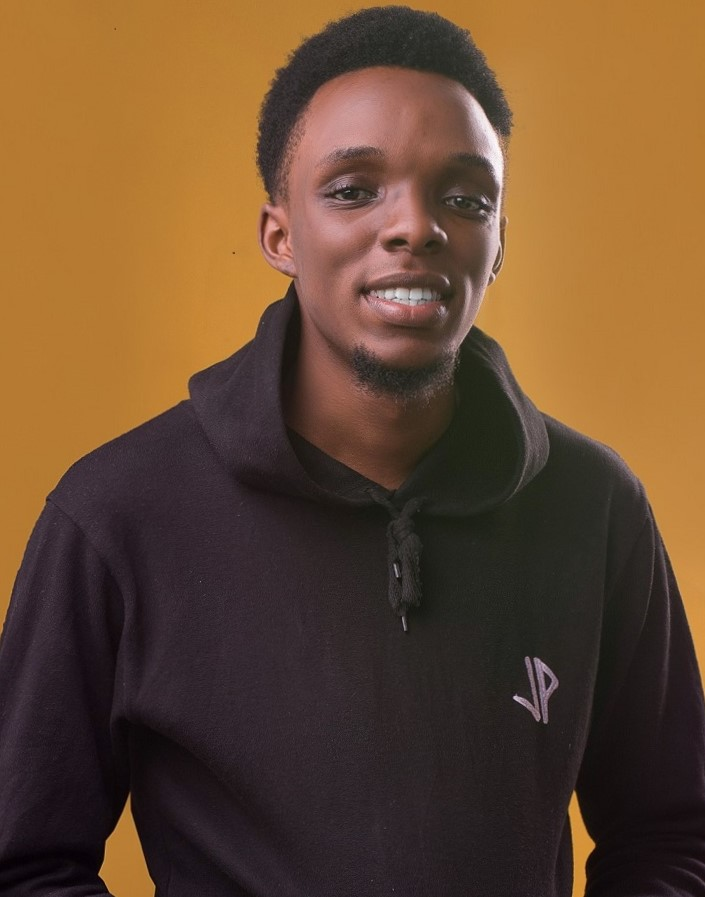
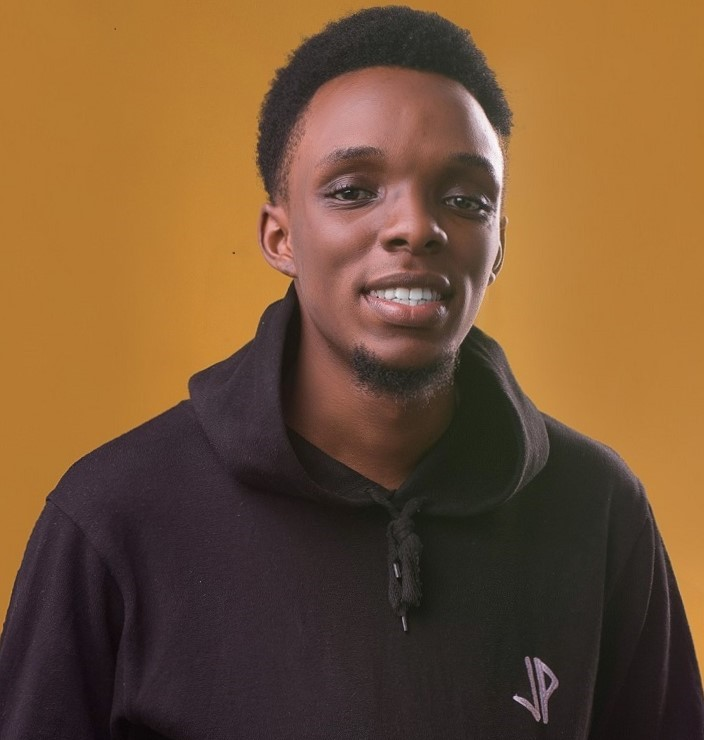
update to the about section

diff --git a/css/designs.css b/css/designs.css
@@ -597,15 +597,19 @@ About
 }
 
 .about-img img{
-  height: 32rem;
+  height: 30rem;
   object-fit: cover;
-  width: 80vw;
+  width: 20vw;
   margin: 0 auto;
-  border-radius: 2rem;
-  transform: skewX(-2deg);
+  border-radius: 1rem;
+  transform: skewX(-1deg);
 }
 .about-info h2{
   color: black;
+}
+.about-info p{
+  color: brown;
+  text-align: justify;
 }
 .underline{
   margin-left: 0;
